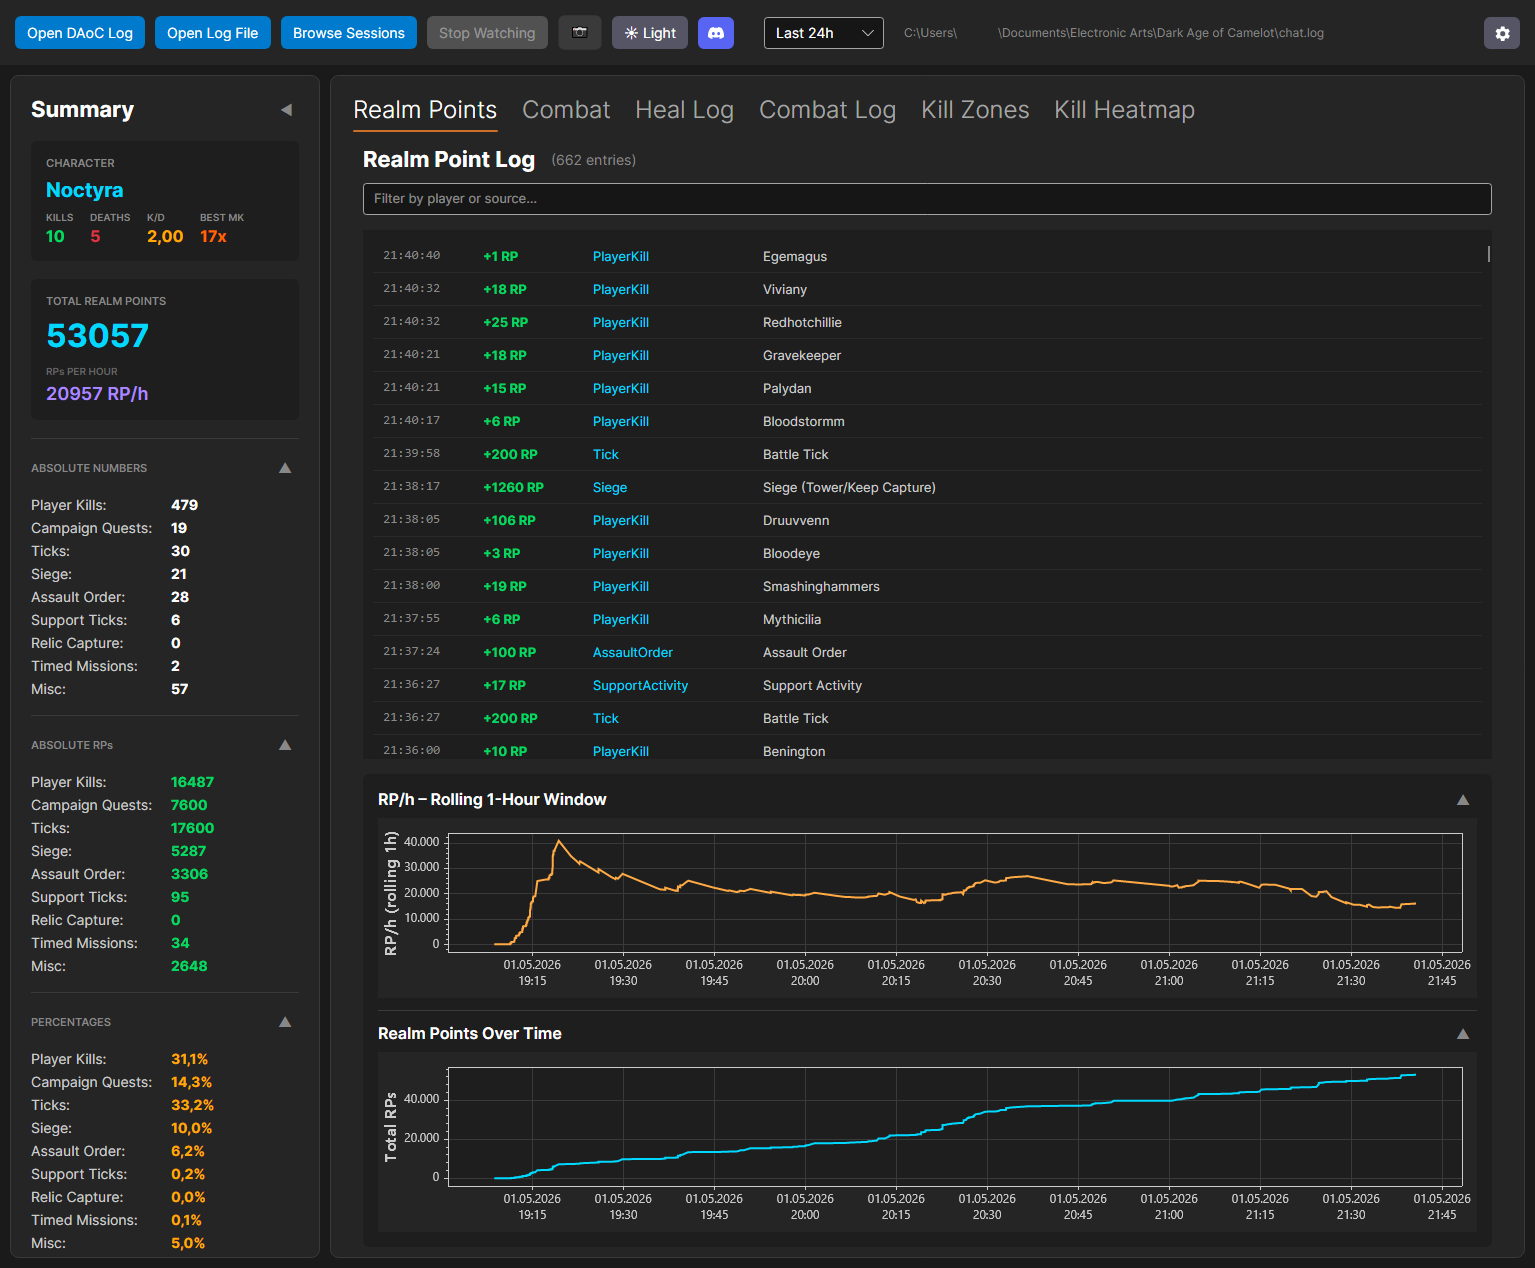
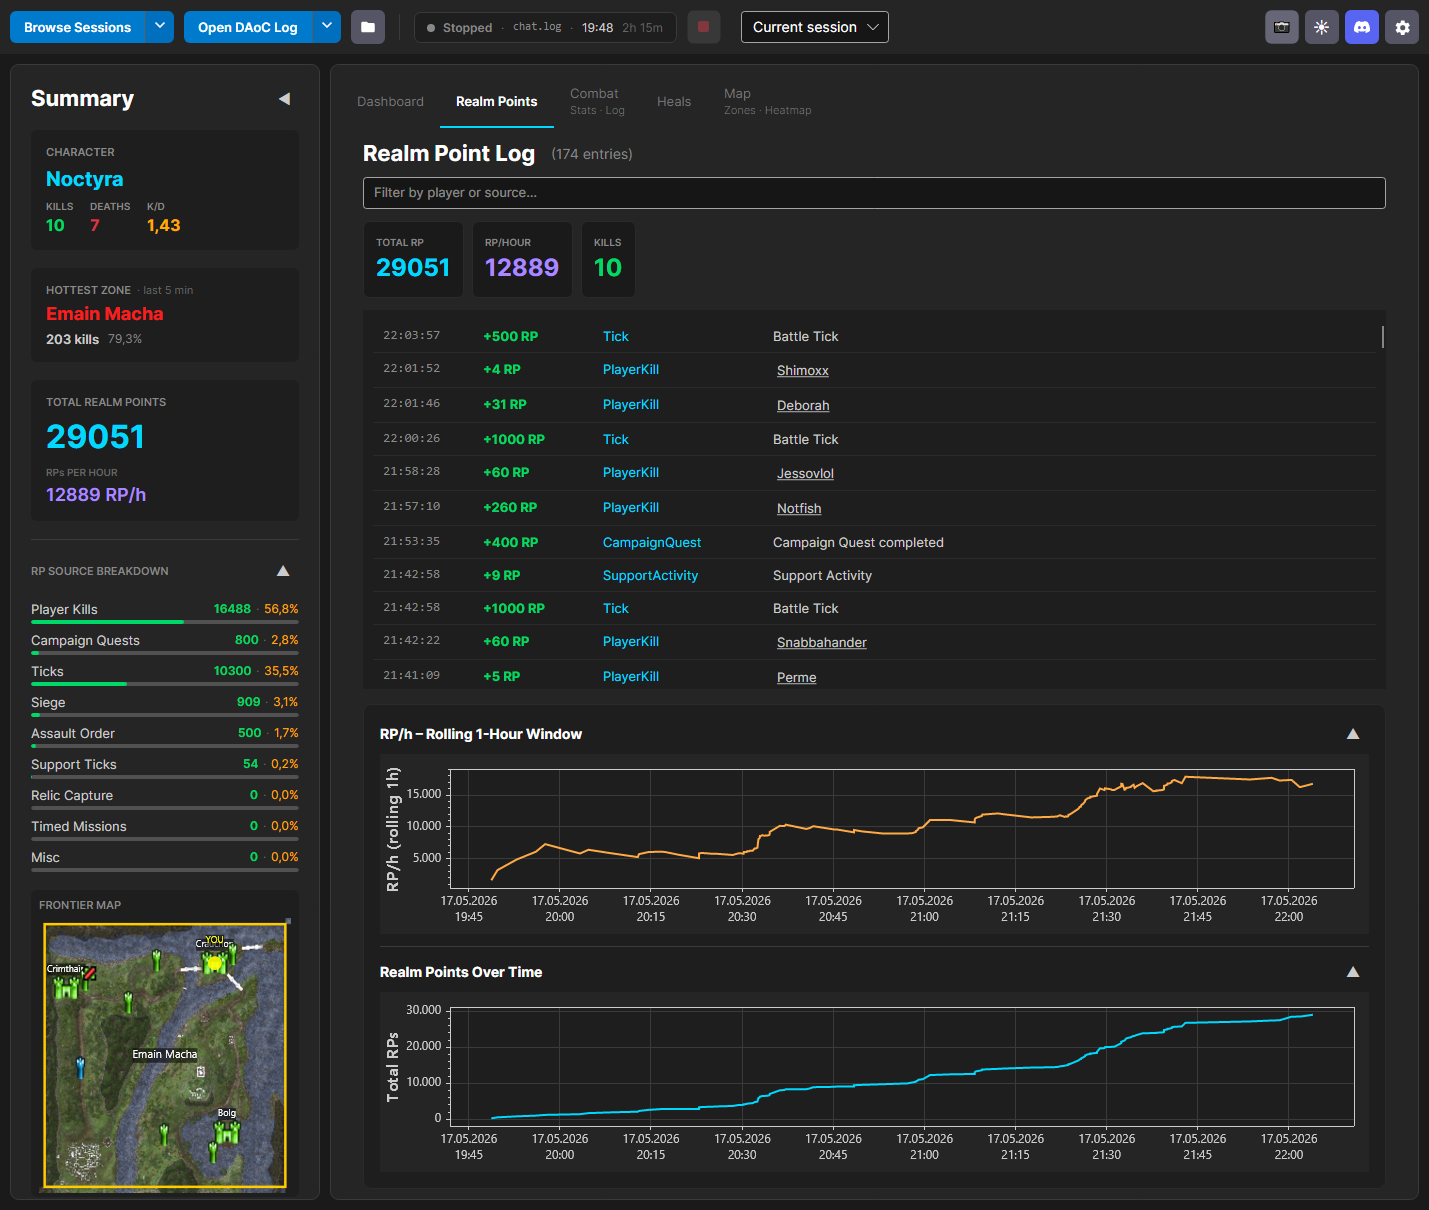
docs: overhaul README and refresh screenshot

diff --git a/README.md b/README.md
@@ -7,8 +7,6 @@
 
 A real-time tracker for **Dark Age of Camelot (Eden)**. Load your `chat.log` and instantly see how many RPs you're earning, where they're coming from, how fast they're rolling in, your kill/death stats, live combat metrics, and a frontier kill heatmap with live keep ownership and fight locations pulled from the warmap — all updated as you play.
 
-> Combat, heal, and damage tracking are in early beta and still being improved. Report issues on the [Issues](https://github.com/ZZerker/DAoCLogWatcher/issues) page or join the [Discord](https://discord.gg/V7Z5y3Ke9v).
-
 ## TL;DR — Getting Started
 
 1. In-game, run **`/chatlog`** to start writing your chat log to disk (only needed once per session)
@@ -21,30 +19,24 @@ A real-time tracker for **Dark Age of Camelot (Eden)**. Load your `chat.log` and
 
 ## Features
 
+### 🎯 Core RP Tracking
 - **Live log tracking** — reads your chat log as the game writes it, no manual refreshing needed
 - **RP breakdown** by source:
   - Player Kills (with victim name when available), Campaign Quests, Battle Ticks
   - Siege (Tower & Keep Captures), Assault Orders
   - Support Activity, Relic Captures, Timed Missions
 - **RP/h meter** — rolling realm points per hour, updated every 5 seconds
-- **Character detection** — type `/stats` in-game and the app identifies your character name and displays it in the sidebar alongside live kills, deaths, and K/D ratio
-- **Charts** — cumulative RP over time and rolling RP/h graph, both collapsible
-- **Session browser** — pick any past play session directly from your `chat.log` by date and time range, instead of guessing time filter windows; selecting the current session keeps the app tailing the file live as usual
-- **Log filters** — filter the Realm Points, Combat Log, and Heal Log tabs by player name, source, spell, or style; results update live as new entries arrive
 - **Time filters** — limit the log to a preset window (1h–1 week) or a custom hours/minutes value
-- **Kill Heatmap** — a live frontier map showing your kill density as a colour-intensity overlay; keep and tower icons are coloured by current realm owner and update as control changes; burning keeps show a flame icon; active fights and group locations streamed from the warmap are displayed as realm-coloured markers on the map
-- **Zone Kills** — shows which frontier zones have had the most kills in the active window, ranked by percentage with a heat-colour indicator; a Global Actisvity chart below plots kill rate over the full session
-- **Live warmap data** — the app connects to the Eden warmap WebSocket and pulls in real-time keep/tower realm ownership, keeps under attack, active fight locations, and roaming group positions; no in-game action needed
-- **Screenshot to clipboard** — capture the full window to your clipboard with one click
-- **Auto-update** — the app checks for new releases on startup and prompts you to install them
-- **Dark & Light theme** — toggle any time
-- **Windows & Linux** supported (Linux via Wine / Lutris / Flatpak)
-- **Secondary monitor support** — the app automatically opens on a secondary monitor if one is present, since DAoC typically runs full-screen on the primary
 
-### 🧪 Beta Features — Combat & Heal Tracking
+### 📊 Dashboard & Visualization
+- **Customizable dashboard** — show/hide each widget, set its size (Small / Medium / Large), and reorder with Move Up / Move Down; save the result as a named layout profile
+  - Supported widgets: RP stats, Combat stats, Kill/death ratio, Best multi-kill, Hottest zone, RP sources, Damage output, Top opponents/spells/healers, Damage taken, Heals done, Zone activity, Logs, Minimap
+  - Save multiple profiles for different characters or playstyles and switch between them from the profile dropdown
+- **Charts** — cumulative RP over time and rolling RP/h graph, both collapsible and interactive
+- **Session browser** — pick any past play session directly from your `chat.log` by date and time range, instead of guessing time filter windows; selecting the current session keeps the app tailing the file live as usual
 
-> **These features are in early beta and still need work.** Numbers may be incomplete or misattributed depending on your class, playstyle, and log line formats the parser hasn't seen yet. If something looks wrong, please share the relevant lines from your `chat.log` on the [Issues](https://github.com/ZZerker/DAoCLogWatcher/issues) page — log examples are always welcome and directly help improve coverage.
-
+### 👤 Character & Combat Tracking
+- **Character detection** — type `/stats` in-game and the app identifies your character name and displays it in the sidebar alongside live kills, deaths, and K/D ratio
 - **Combat tracking** — a dedicated Combat tab shows stats parsed live from your combat log:
   - **Damage dealt** — total, hit count, average per hit, and crit count / crit rate
   - **Damage taken** — total received and breakdown by attacker
@@ -52,13 +44,27 @@ A real-time tracker for **Dark Age of Camelot (Eden)**. Load your `chat.log` and
   - **Outgoing heals** — total HP you healed and breakdown by target
   - **Miss & resist rates** — melee miss rate (misses + blocks) and spell resist rate, tracked separately
   - **Attack type breakdown** — avg damage per weapon / spell / melee style, shown as a bar chart
-- **Melee style attribution** — weapon hits are attributed to the style that triggered them; unexecuted styles produce plain unattributed swings; multi-hit classes carry the style across all hits in a swing sequence
-- **DoT tick tracking** — active DoTs on each target are shown as live-updating stack entries in the combat log; each tick updates the entry in place rather than flooding the log
-- **Data-driven spell detection** — AoE nukes and DoT windows are resolved against Eden spell data, improving attribution accuracy across all classes and specs
-- **Combat log tab** — scrollable per-hit log showing timestamp, direction, damage, source (style, spell, or weapon name), and target
-- **Heal log tab** — scrollable per-heal log showing timestamp, HP, direction, and who was healed
+  - **Melee style attribution** — weapon hits are attributed to the style that triggered them; unexecuted styles produce plain unattributed swings
+- **DoT tracking** — active DoTs on each target are shown as live-updating stack entries in the combat log; each tick updates the entry in place rather than flooding the log
+- **Data-driven spell detection** — AoE nukes and DoT windows are resolved against a built-in spell database, improving attribution accuracy across all classes and specs
+- **Combat & Heal logs** — scrollable per-hit event streams with timestamp, damage/HP, source, and target
 
-> Combat parsing covers weapon attacks, melee styles, spells, crits, heals, misses, blocks, and resists. Results depend on log line formats — edge cases may not yet be handled.
+### 🗺️ Frontier Map & Zone Tracking
+- **Kill Heatmap** — a live frontier map showing your kill density as a colour-intensity overlay; keep and tower icons are coloured by current realm owner and update as control changes; burning keeps show a flame icon; active fights and group locations streamed from the warmap are displayed as realm-coloured markers on the map
+- **Zone activity** — shows which frontier zones have had the most kills in the active window, ranked by percentage with a heat-colour indicator; a Global Activity chart below plots kill rate over the full session
+- **Live warmap data** — the app connects to the Eden warmap WebSocket and pulls in real-time keep/tower realm ownership, keeps under attack, active fight locations, and roaming group positions; no in-game action needed
+
+### 🛠️ UI & Accessibility
+- **Log filters** — filter the Realm Points, Combat Log, and Heal Log tabs by player name, source, spell, or style; results update live as new entries arrive
+- **Screenshot to clipboard** — capture the full window to your clipboard with one click
+- **Dark & Light theme** — toggle any time
+- **Secondary monitor support** — the app automatically opens on a secondary monitor if one is present, since DAoC typically runs full-screen on the primary
+- **Auto-update** — the app checks for new releases on startup and prompts you to install them
+
+### 💻 Cross-Platform
+- **Windows & Linux** supported (Linux via Wine / Lutris / Flatpak)
+- Native path detection for all platforms
+- Flatpak sandbox support with full WebSocket networking
 
 ---
 
@@ -134,6 +140,8 @@ The app detects this and displays your character name in the sidebar with live k
 
 Filters are applied from the moment you open a log — useful when your `chat.log` spans many days and you only care about recent activity. Changing the filter while the app is already watching automatically restarts the session with the new window.
 
+For a specific past play session, use **Browse Sessions** instead of a rolling window — it lets you pick the exact session by date and time range straight from your `chat.log`, rather than guessing how many hours back to filter. Selecting the current session keeps the app tailing the file live as usual.
+
 ---
 
 ## Character Detection & Kill Tracking
@@ -157,6 +165,22 @@ Once detected, your character name appears at the top of the sidebar with:
 
 ---
 
+## Dashboard Profiles
+
+Save and load custom widget layouts for different characters or playstyles:
+
+1. On the Dashboard tab, show/hide each widget, set its size (Small / Medium / Large), and reorder it with Move Up / Move Down
+2. Click **Save Profile** and enter a name (e.g., "Solo Caster", "RvR Grind", "Heal Support")
+3. Switch layouts with the profile dropdown — all widget state is preserved per profile
+4. Click **Save As** to duplicate a profile, or **Delete** to remove it
+5. New widgets added in app updates are appended to existing profiles automatically
+
+Profiles are stored in `AppSettings.json` and persist across app restarts.
+
+The dashboard is brand new, so feedback is very welcome — ideas for widgets, layout improvements, or just your opinion on how it works. Drop a note in [Discord](https://discord.gg/V7Z5y3Ke9v) (for feature ideas and feedback, use Discord; keep [GitHub Issues](https://github.com/ZZerker/DAoCLogWatcher/issues) for actual bugs).
+
+---
+
 ## Log File Location
 
 | Platform | Default path |
@@ -169,13 +193,23 @@ If **Open DAoC Log** can't find the file automatically, use **Open Log File** to
 
 ---
 
-## ⚠️ Known Issues (Beta)
+## Combat & Heal Tracking
+
+Combat parsing covers weapon attacks, melee styles, spells, crits, heals, misses, blocks, and resists. All data is attributed using:
+
+- **Spell data-driven detection** — DoT spells and AoE nukes are resolved against a built-in spell database for maximum accuracy
+- **Two-tier spell attribution** — pending spells (last 4.5s window) vs. confirmed hits ensure multi-hit abilities and DoT ticks are correctly assigned
+- **Comprehensive log coverage** — results depend on log line formats; edge cases are continuously improved based on community log samples
+
+**Report combat parsing issues on the [Issues](https://github.com/ZZerker/DAoCLogWatcher/issues) page** — log examples are always welcome and directly help improve coverage. Join the [Discord](https://discord.gg/V7Z5y3Ke9v) to share logs in real-time.
+
+---
+
+## Known Quirks
 
 | Feature | Status |
 |---|---|
-| Combat & heal tracking | Early beta — spell attribution, damage categorization, and heal tracking may be incomplete or incorrect for some classes and abilities |
-
-Please report unexpected behaviour on the [Issues](https://github.com/ZZerker/DAoCLogWatcher/issues) page or in [Discord](https://discord.gg/V7Z5y3Ke9v). **Log examples are especially helpful** — if a number looks wrong, paste the relevant lines from your `chat.log` and it will be fixed.
+| Combat parsing | Combat and heal tracking depend on log line formats and edge cases may require updates for uncommon classes or abilities — [report issues](https://github.com/ZZerker/DAoCLogWatcher/issues) with log examples |
 
 ---
 